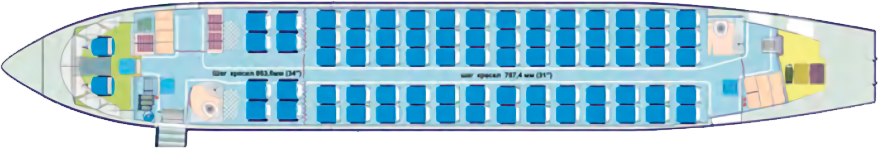
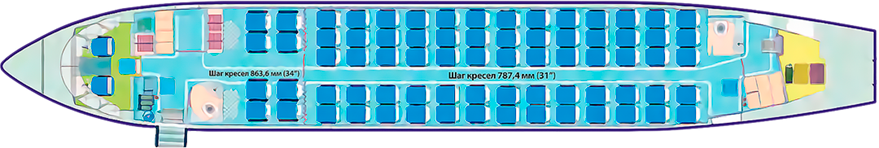
feat(layouts): x1 and x2 better quality images; fix(modal): margin

diff --git a/css/main.css b/css/main.css
@@ -1629,7 +1629,7 @@ footer {
   background-image: linear-gradient(rgba(0, 0, 0, 0.8) 30%, #000000);
   box-shadow: 1px 5px 1px 1px rgba(0, 0, 0, 0.75), 1px -5px 1px 1px rgba(0, 0, 0, 0.1);
   min-width: 200px;
-  min-height: 250px;
+  min-height: 150px;
 }
 .modal-content-wrapper {
   display: -webkit-box;
@@ -1646,6 +1646,7 @@ footer {
   max-width: 100%;
   height: auto;
   border-radius: 5px;
+  margin-top: auto;
 }
 .modal-content-description {
   margin-top: auto;
@@ -1695,4 +1696,4 @@ footer {
 .content-loaded {
   display: none;
 }
[2 lines of base64/hex data omitted]

diff --git a/less/modal.less b/less/modal.less
@@ -27,7 +27,7 @@
         background-image: linear-gradient(rgba(0, 0, 0, 0.8) 30%, rgba(0, 0, 0, 1));
         box-shadow: 1px 5px 1px 1px rgba(0, 0, 0, 0.75), 1px -5px 1px 1px rgba(0, 0, 0, 0.1);
         min-width: 200px;
-        min-height: 250px;
+        min-height: 150px;
 
         &-wrapper {
             display: flex;
@@ -40,6 +40,7 @@
             max-width: 100%;
             height: auto;
             border-radius: 5px;
+            margin-top: auto;
         }
 
         &-description {
